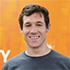
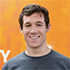
Further resize pizzeria image to 33.7 KB and resize profile image to 5.5 KB

diff --git a/project-webperf.html b/project-webperf.html
@@ -11,7 +11,7 @@
     <!-- <link href="//fonts.googleapis.com/css?family=Open+Sans:400,700" rel="stylesheet"> -->
 
     <link href="css/style.css" rel="stylesheet">
-    <link href="css/print.css" rel="stylesheet">
+    <link href="css/print.css" rel="stylesheet" media="print">
 
     <script>
       (function(w,g){w['GoogleAnalyticsObject']=g;
